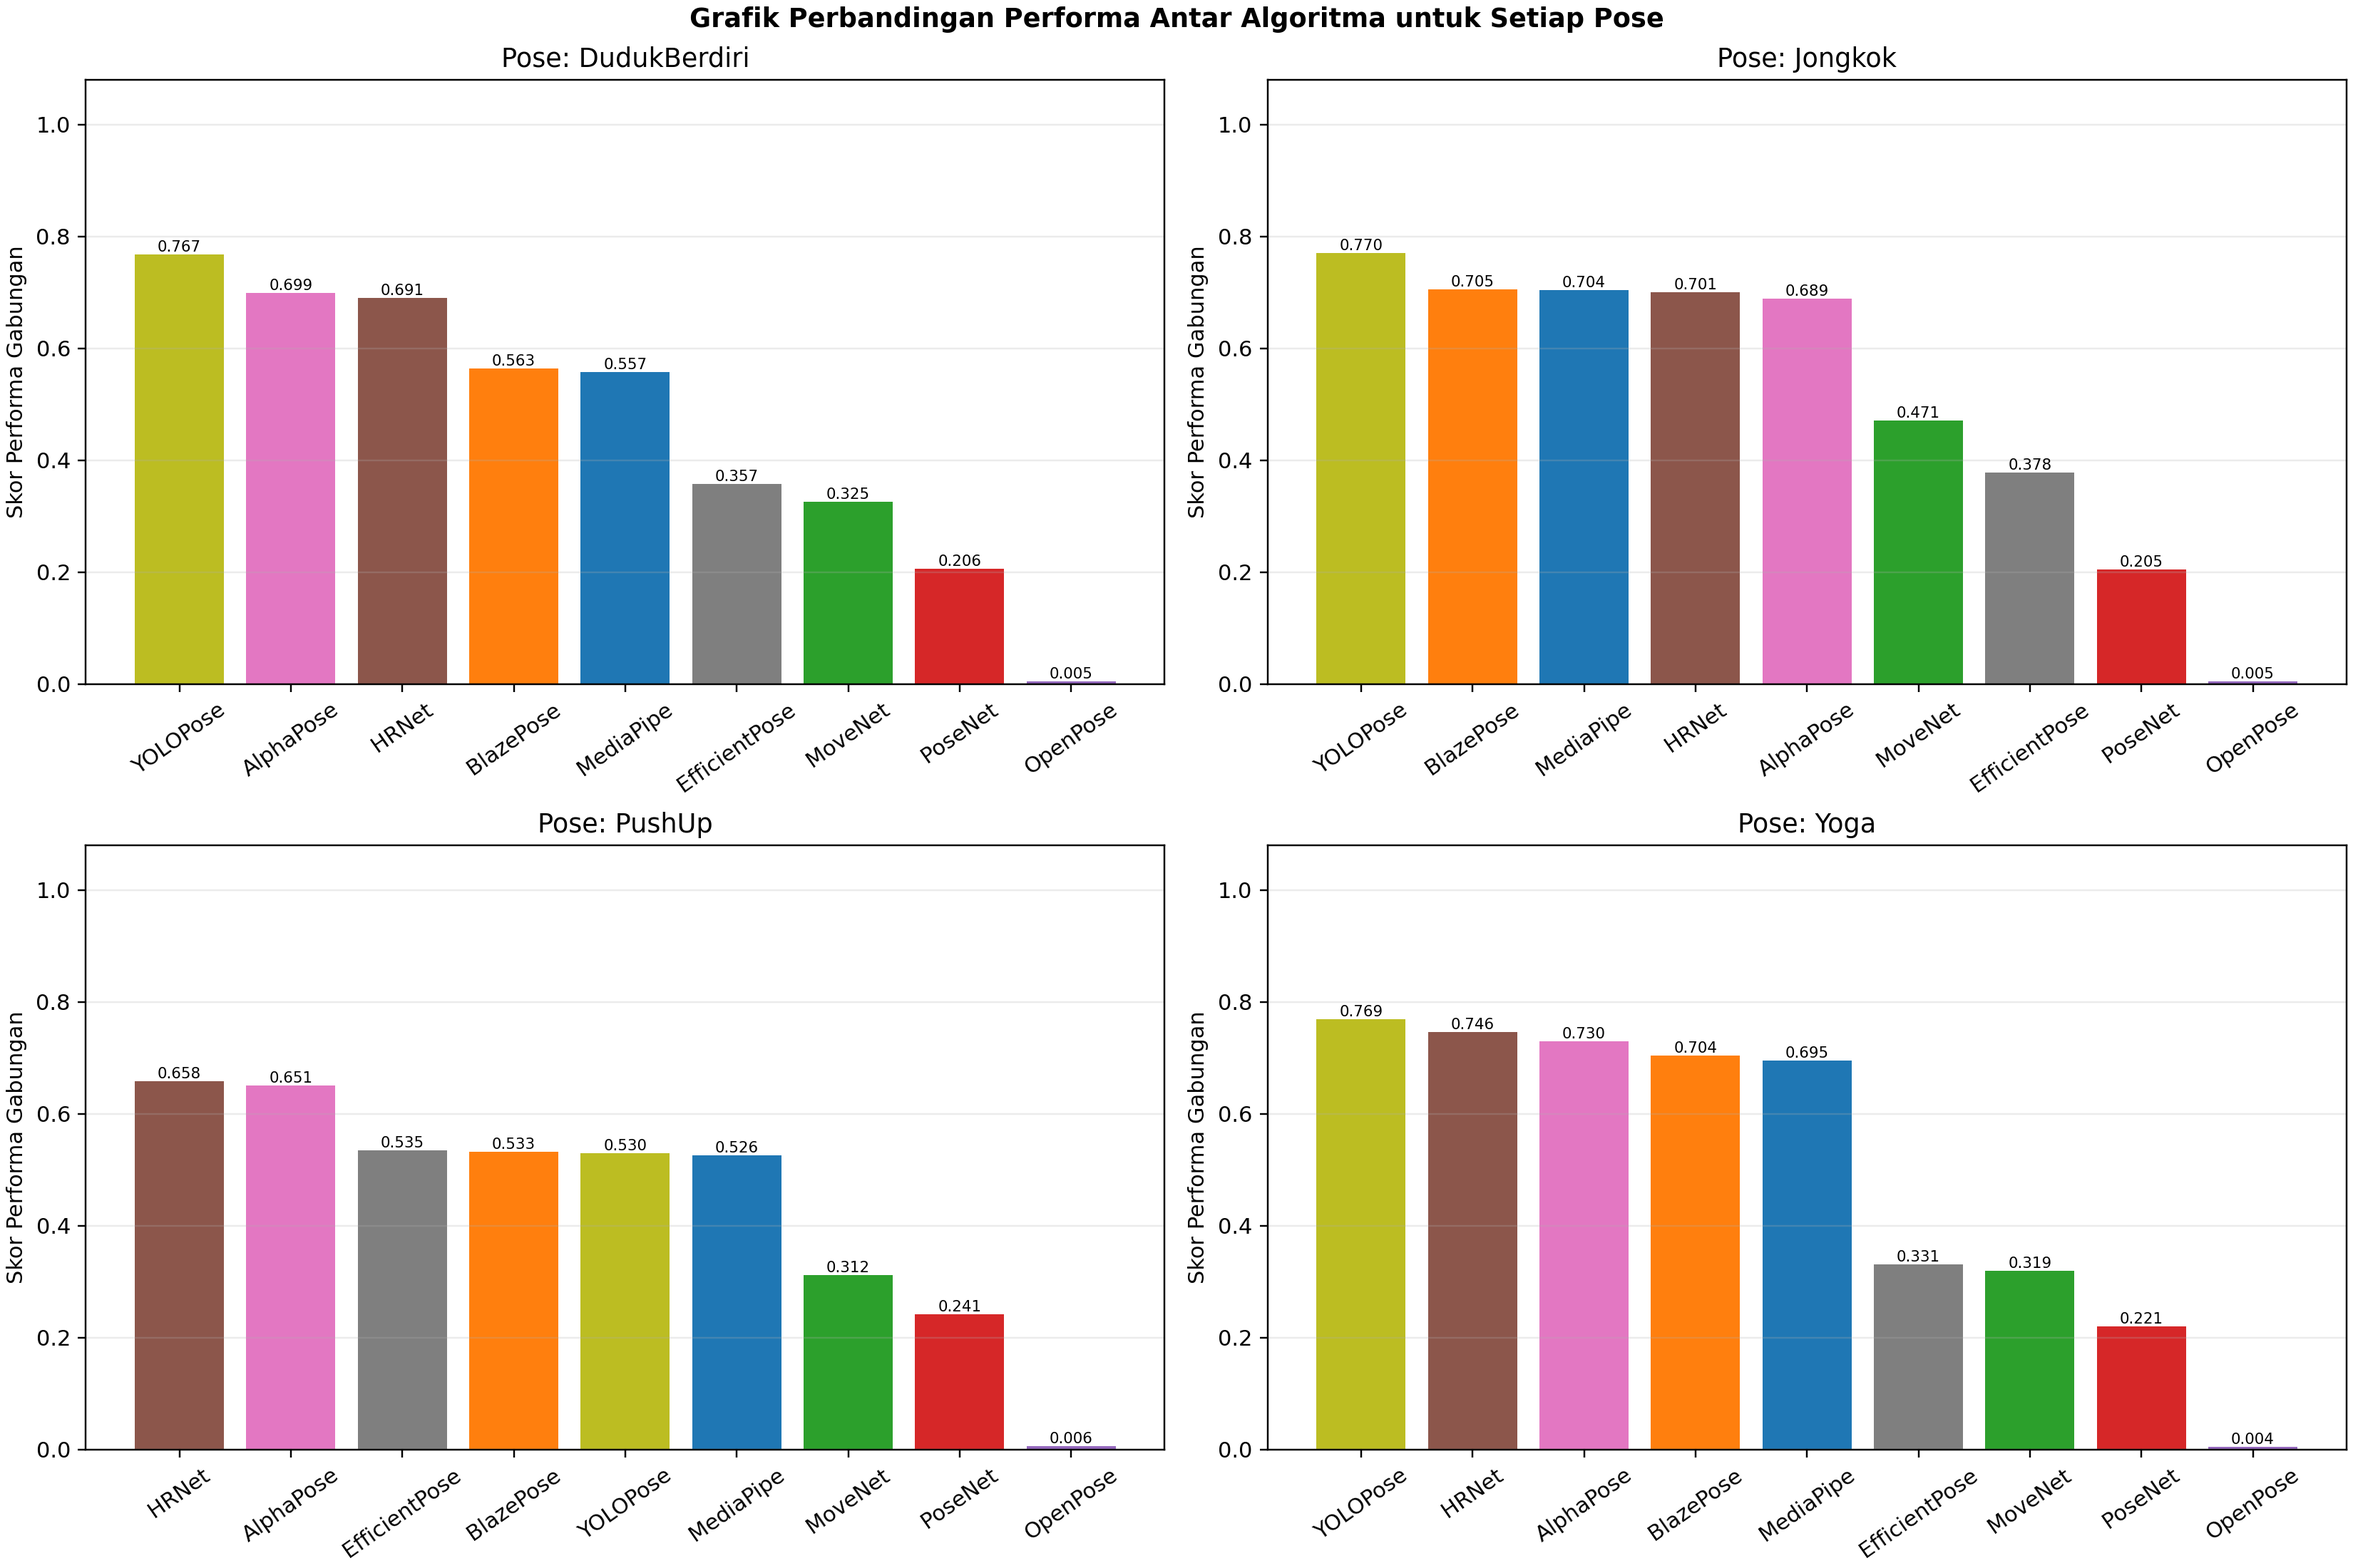
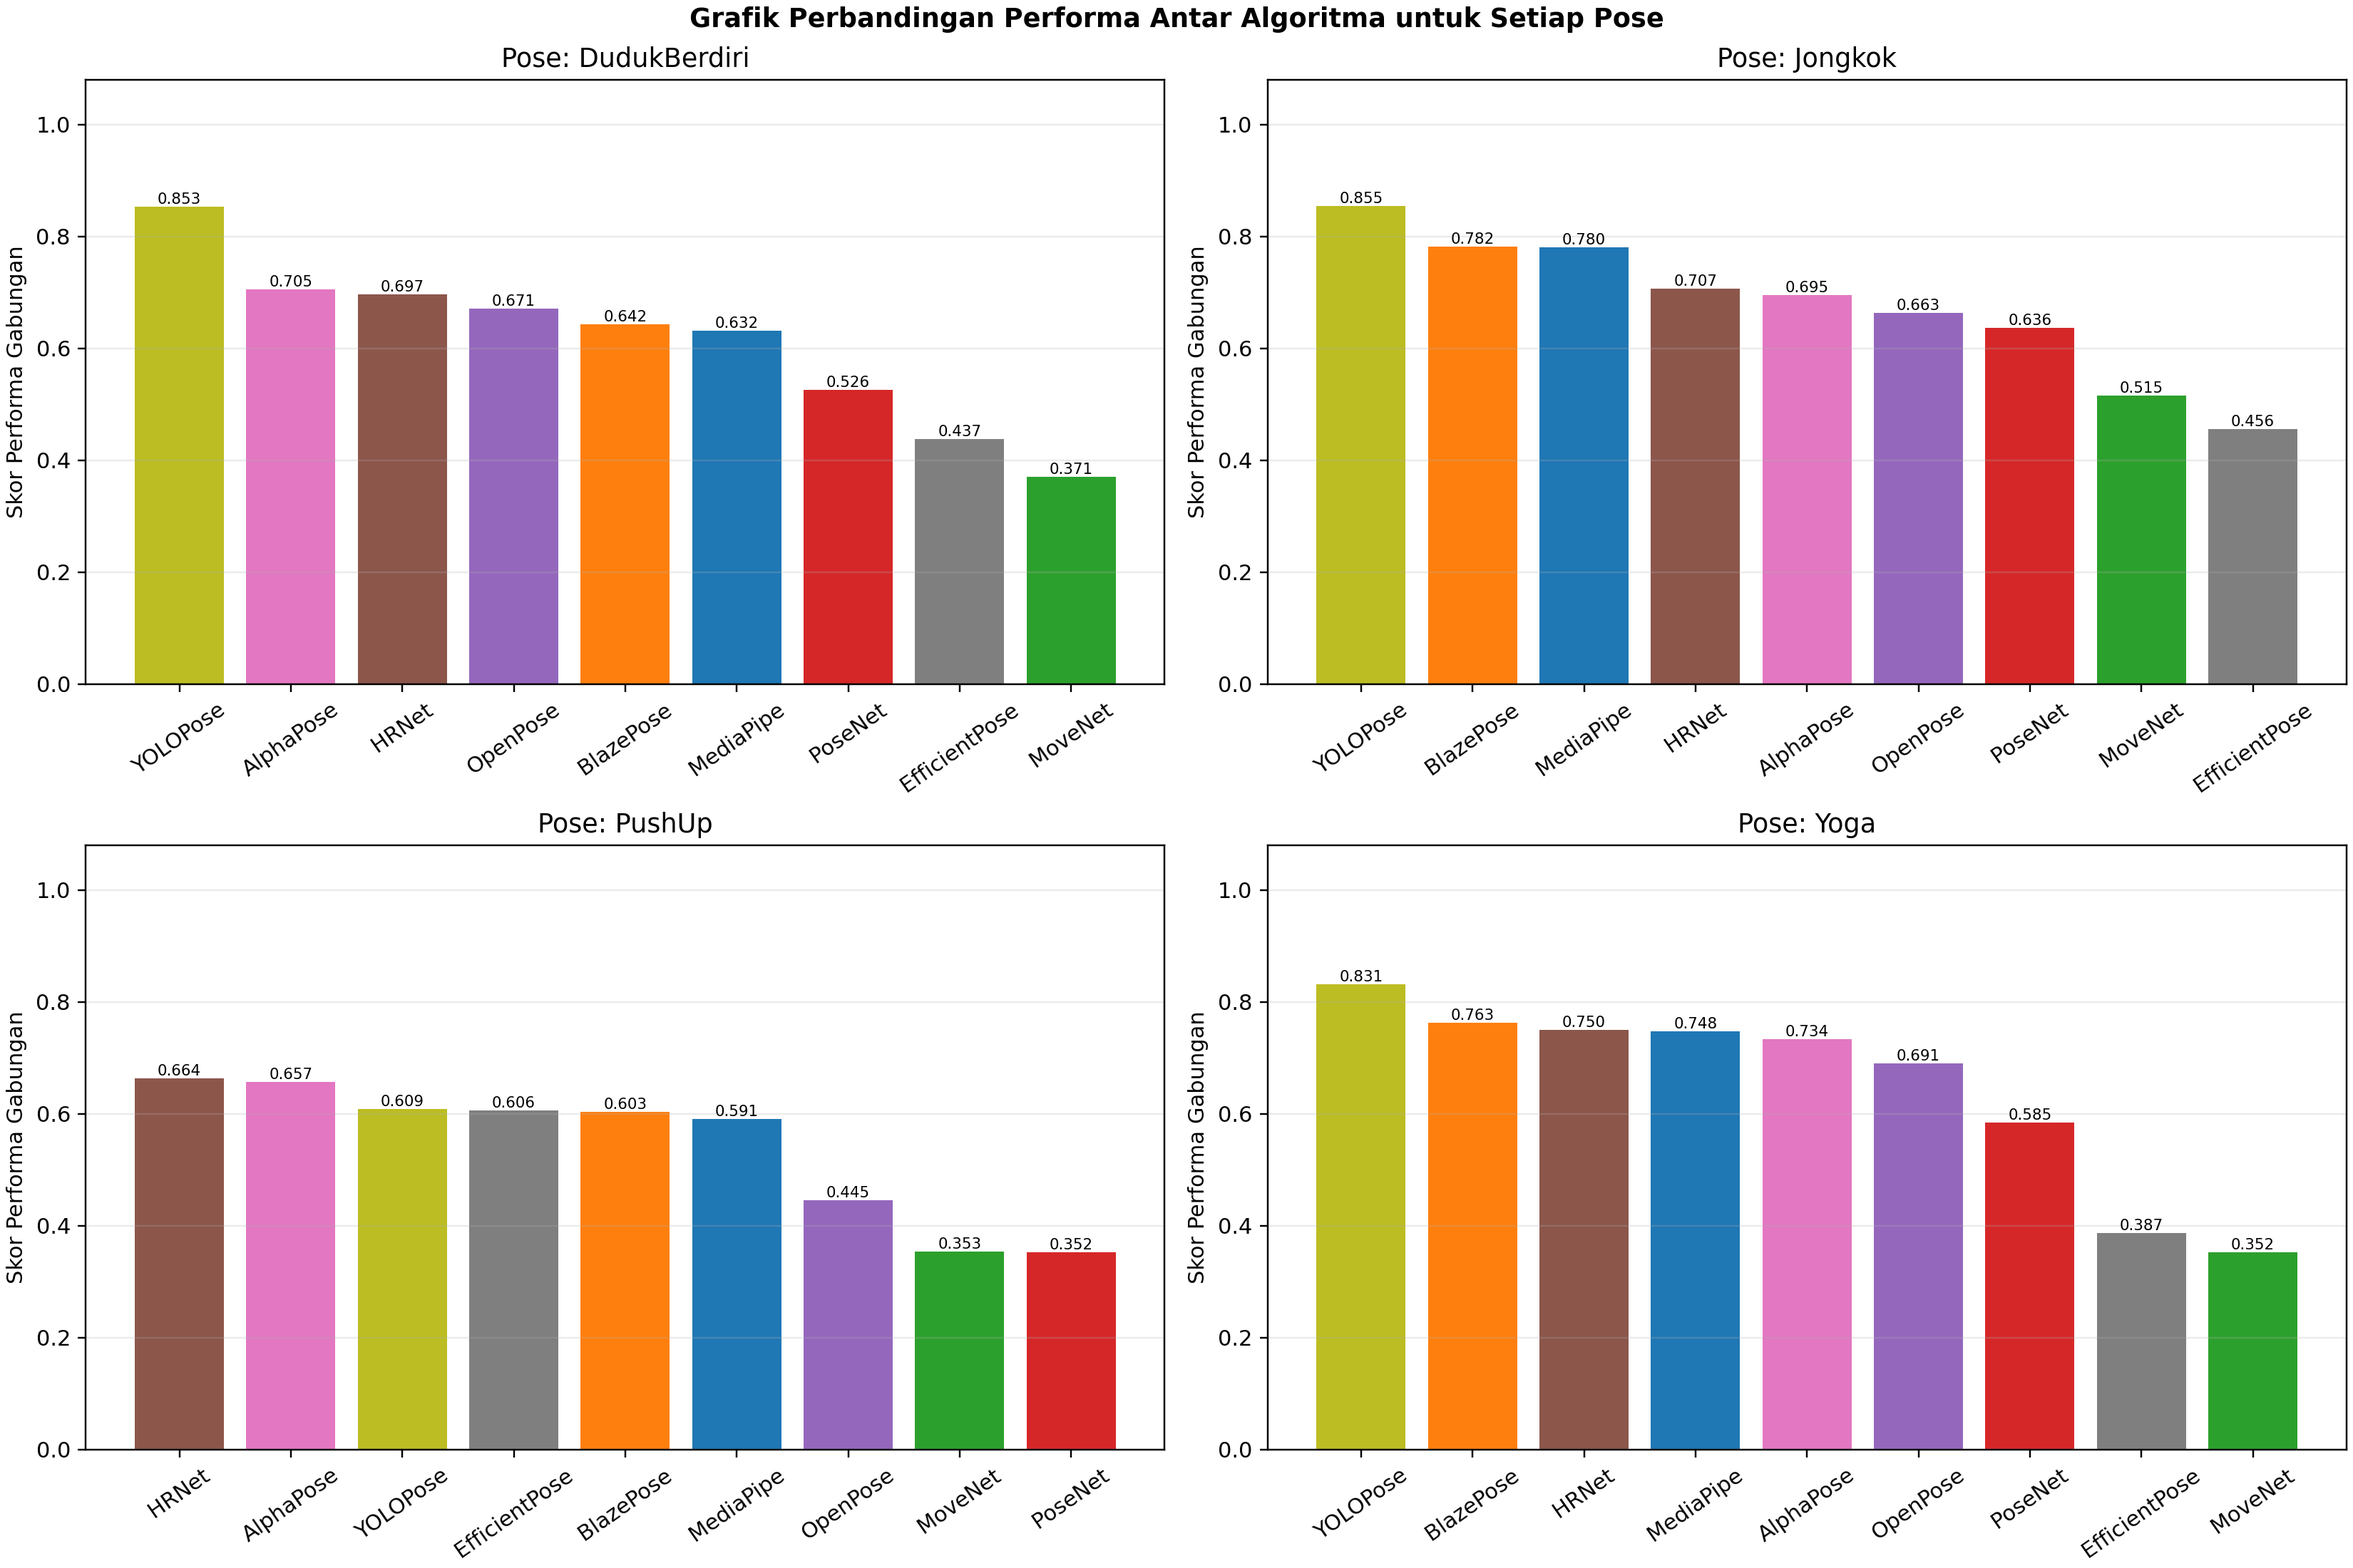
perbaikan movenet dan efficientpose

diff --git a/keypoint_evaluator/backends/efficientpose.py b/keypoint_evaluator/backends/efficientpose.py
@@ -5,13 +5,20 @@ This backend integrates the local repository:
     <workspace>/EfficientPose-master
 
 It uses the original model code in that repo and requires a trained
-checkpoint (.pth). The implementation runs single-person top-down inference
-on full frames (center crop/warp), returning one Pose17 per frame.
+checkpoint (.pth). The implementation supports two inference modes:
+
+  1. Whole-frame center-crop (default): inference on full frame using center crop/warp.
+     Returns one Pose17 per frame. Backward compatible with earlier versions.
+
+  2. Top-down person crop (if person_bbox provided): crop and infer from person-centric bbox,
+     following the standard top-down paradigm. More accurate when person bbox is available 
+     (from GT or detector).
 
 Config keys:
     efficientpose_dir        : repo root path (default: <workspace>/EfficientPose-master)
     efficientpose_cfg        : experiment yaml path (default: COCO EfficientPose-A)
     efficientpose_checkpoint : required .pth model checkpoint
+    efficientpose_use_gt_bbox: bool, if True use GT bbox in evaluation (requires runner support)
     device                   : 'cpu' or GPU index string, e.g. '0'
 
 Requires:
@@ -178,7 +185,18 @@ class EfficientPoseBackend(BackendAdapter):
         self._cfg = None
         self._device = None
 
-    def infer_frame(self, frame_bgr: np.ndarray) -> List[Pose17]:
+    def infer_frame(self, frame_bgr: np.ndarray, person_bbox: Optional[np.ndarray] = None) -> List[Pose17]:
+        """Infer pose on a single frame.
+        
+        Args:
+            frame_bgr: Input image in BGR format.
+            person_bbox: Optional [x, y, w, h] bounding box for top-down mode.
+                         If provided, crop and process person-centric.
+                         If None, use whole-frame center-crop mode.
+        
+        Returns:
+            List of Pose17 objects (typically 1 for single-person modes).
+        """
         if self._model is None or self._cfg is None:
             raise RuntimeError("Backend not loaded. Call load() first.")
 
@@ -187,17 +205,38 @@ class EfficientPoseBackend(BackendAdapter):
         torch = self._torch
         h, w = frame_bgr.shape[:2]
 
-        center = np.array([w * 0.5, h * 0.5], dtype=np.float32)
-        aspect_ratio = float(self._img_w) / float(self._img_h)
-        pixel_std = 200.0
-
-        if w > aspect_ratio * h:
-            box_h = w / aspect_ratio
-            box_w = w
+        # Mode selection: top-down crop vs whole-frame center-crop
+        if person_bbox is not None and len(person_bbox) >= 4:
+            # Top-down mode: use provided person bbox
+            bbox_x, bbox_y, bbox_w, bbox_h = person_bbox[:4]
+            
+            # Convert bbox [x, y, w, h] to center and scale
+            # Following EfficientPose/HRNet convention
+            center = np.array([bbox_x + bbox_w * 0.5, bbox_y + bbox_h * 0.5], dtype=np.float32)
+            aspect_ratio = float(self._img_w) / float(self._img_h)
+            pixel_std = 200.0
+            
+            # Scale calculation based on bbox size
+            if bbox_w > aspect_ratio * bbox_h:
+                box_h = bbox_w / aspect_ratio
+                box_w = bbox_w
+            else:
+                box_w = bbox_h * aspect_ratio
+                box_h = bbox_h
+            scale = np.array([box_w / pixel_std, box_h / pixel_std], dtype=np.float32)
         else:
-            box_w = h * aspect_ratio
-            box_h = h
-        scale = np.array([box_w / pixel_std, box_h / pixel_std], dtype=np.float32)
+            # Whole-frame center-crop mode (backward compatible)
+            center = np.array([w * 0.5, h * 0.5], dtype=np.float32)
+            aspect_ratio = float(self._img_w) / float(self._img_h)
+            pixel_std = 200.0
+
+            if w > aspect_ratio * h:
+                box_h = w / aspect_ratio
+                box_w = w
+            else:
+                box_w = h * aspect_ratio
+                box_h = h
+            scale = np.array([box_w / pixel_std, box_h / pixel_std], dtype=np.float32)
 
         trans = self._get_affine_transform(center, scale, 0, [self._img_w, self._img_h])
         inp = cv2.warpAffine(frame_bgr, trans, (self._img_w, self._img_h), flags=cv2.INTER_LINEAR)

diff --git a/keypoint_evaluator/main.py b/keypoint_evaluator/main.py
@@ -150,10 +150,10 @@ def _parse_args(argv=None) -> argparse.Namespace:
     mv = p.add_argument_group("MoveNet backend options")
     mv.add_argument(
         "--movenet-model",
-        default="movenet_lightning",
+        default="movenet_thunder",
         choices=["movenet_lightning", "movenet_thunder",
                  "movenet_multipose_lightning"],
-        help="MoveNet model variant. Default: movenet_lightning",
+        help="MoveNet model variant. Default: movenet_thunder (better accuracy than lightning)",
     )
 
     # ── PoseNet config ───────────────────────────────────────────────────────
@@ -328,6 +328,14 @@ def _parse_args(argv=None) -> argparse.Namespace:
         metavar="PTH",
         help="EfficientPose model checkpoint (.pth). Required.",
     )
+    ep.add_argument(
+        "--efficientpose-use-gt-bbox",
+        action="store_true",
+        help=(
+            "If set, EfficientPose uses GT person bbox for top-down crop inference. "
+            "More accurate but requires GT annotations. Otherwise uses whole-frame center-crop."
+        ),
+    )
 
     return p.parse_args(argv)
 
@@ -374,6 +382,7 @@ def build_backend_config(args: argparse.Namespace) -> dict:
         "efficientpose_dir": args.efficientpose_dir,
         "efficientpose_cfg": args.efficientpose_cfg,
         "efficientpose_checkpoint": args.efficientpose_checkpoint,
+        "efficientpose_use_gt_bbox": args.efficientpose_use_gt_bbox,
         # Common
         "device":          args.device,
     }

diff --git a/keypoint_evaluator/runner.py b/keypoint_evaluator/runner.py
@@ -184,7 +184,14 @@ def run_evaluation(
             # Measure inference latency
             t0 = time.perf_counter()
             try:
-                predictions = backend.infer_frame(frame_bgr)
+                # For EfficientPose with GT bbox mode: pass GT bbox if available
+                if (backend.NAME == "efficientpose" and 
+                    cfg.backend_config.get("efficientpose_use_gt_bbox", False) and 
+                    gt_frame is not None):
+                    person_bbox = gt_frame.gt_bbox  # [x, y, w, h]
+                    predictions = backend.infer_frame(frame_bgr, person_bbox=person_bbox)
+                else:
+                    predictions = backend.infer_frame(frame_bgr)
             except Exception:
                 predictions = []
                 traceback.print_exc()

diff --git a/docs_evaluasi/generate_grafik_summary_final.py b/docs_evaluasi/generate_grafik_summary_final.py
@@ -94,8 +94,6 @@ def resolve_summary_path(input_path: Path) -> Path:
     if input_path.is_dir():
         candidates = [
             input_path / "summary_all_final.csv",
-            input_path / "summary_final.csv",
-            input_path / "summary_all.csv",
         ]
         for c in candidates:
             if c.exists():
